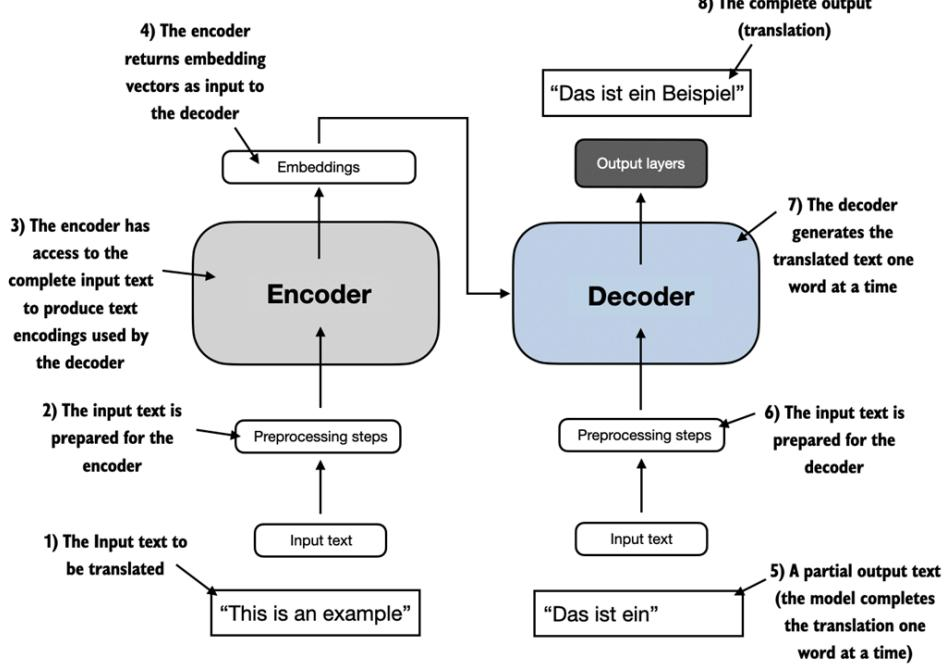
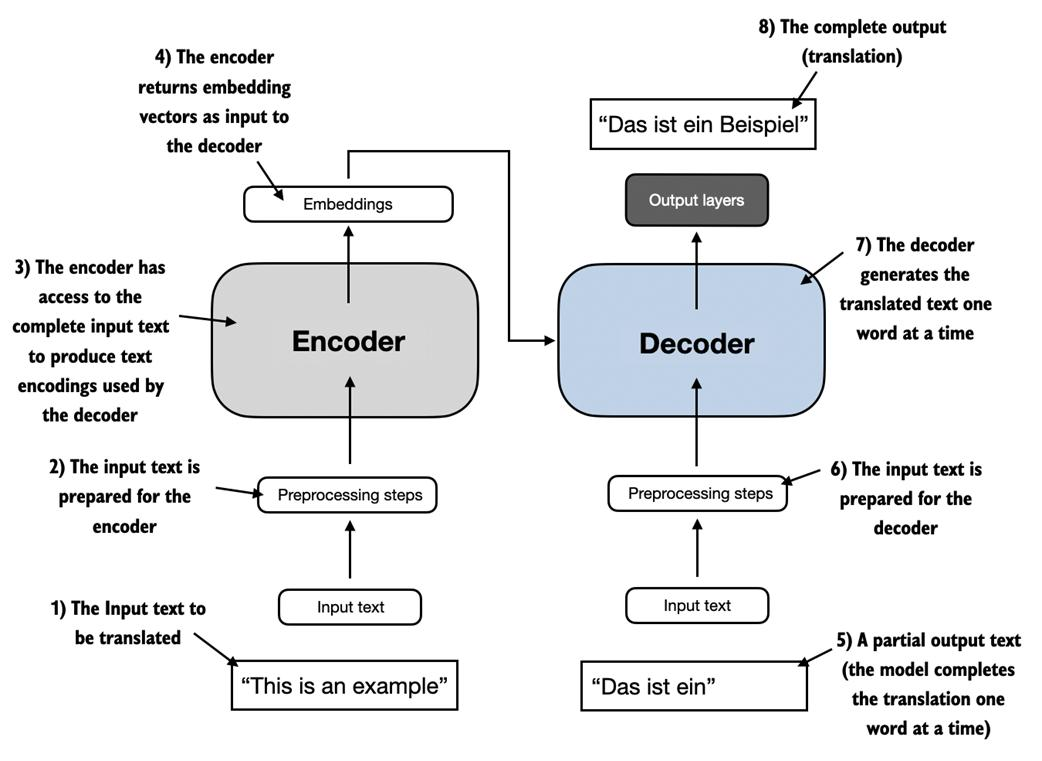
202504015.11

diff --git a/e-Book/en/Build_a_Large_Language_Model_(From_Scrat_v8_MEAP.md b/e-Book/en/Build_a_Large_Language_Model_(From_Scrat_v8_MEAP.md
@@ -122,9 +122,9 @@ The general process of creating an LLM includes pretraining and finetuning. The 
 
 ![](_page_10_Figure_0.jpeg)
 
-Figure 1.3 Pretraining an LLM involves next-word prediction on large text datasets. A pretrained LLM can then be finetuned using a smaller labeled dataset.
+> Figure 1.3 Pretraining an LLM involves next-word prediction on large text datasets. A pretrained LLM can then be finetuned using a smaller labeled dataset.
 
-As illustrated in Figure 1.3, the first step in creating an LLM is to train it on a large corpus of text data, sometimes referred to as *raw* text. Here, "raw" refers to the fact that this data is just regular text without any labeling information [\[1\]](#page-20-0) . (Filtering may be applied, such as removing formatting characters or documents in unknown languages.)
+As illustrated in Figure 1.3, the first step in creating an LLM is to train it on a large corpus of text data, sometimes referred to as *raw* text. Here, "raw" refers to the fact that this data is just regular text without any labeling information[^1]. (Filtering may be applied, such as removing formatting characters or documents in unknown languages.)
 
 This first training stage of an LLM is also known as *pretraining*, creating an initial pretrained LLM, often called a *base* or *foundation model*. A typical example of such a model is the GPT-3 model (the precursor of the original model offered in ChatGPT). This model is capable of text completion, that is, finishing a half-written sentence provided by a user. It also has limited few-shot capabilities, which means it can learn to perform new tasks based on only a few examples instead of needing extensive training data. This is further illustrated in the next section*, Introducing the transformer architecture*.
 
@@ -138,7 +138,7 @@ In this book, we will cover both code implementations for pretraining and finetu
 
 ## 1.4 Introducing the transformer architecture
 
-Most modern LLMs rely on the **transformer** architecture, which is a deep neural network architecture introduced in the 2017 paper **Attention Is All You Need**. To understand LLMs we briefly have to go over the original transformer, which was originally developed for machine translation, translating English texts to German and French. A simplified version of the transformer architecture is depicted in Figure 1.4.
+Most modern LLMs rely on the **transformer** architecture, which is a deep neural network architecture introduced in the 2017 paper **[Attention Is All You Need](https://arxiv.org/abs/1706.03762)**. To understand LLMs we briefly have to go over the original transformer, which was originally developed for machine translation, translating English texts to German and French. A simplified version of the transformer architecture is depicted in Figure 1.4.
 
 ![](_page_11_Figure_2.jpeg)
 
@@ -148,7 +148,7 @@ The transformer architecture depicted in Figure 1.4 consists of two submodules, 
 
 A key component of transformers and LLMs is the self-attention mechanism (not shown), which allows the model to weigh the importance of different words or tokens in a sequence relative to each other. This mechanism enables the model to capture long-range dependencies and contextual relationships within the input data, enhancing its ability to generate coherent and contextually relevant output. However, due to its complexity, we will defer the explanation to chapter 3, where we will discuss and implement it step by step. Moreover, we will also discuss and implement the data preprocessing steps to create the model inputs in [chapter 2, Working with Text Data](# 2 Working with Text Data).
 
-Later variants of the transformer architecture, such as the so-called BERT (short for *bidirectional encoder representations from transformers*) and the various GPT models (short for *generative pretrained transformers*), built on this concept to adapt this architecture for different tasks. (References can be found in Appendix B.)
+Later variants of the transformer architecture, such as the so-called BERT (short for **bidirectional encoder representations from transformers**) and the various GPT models (short for **generative pretrained transformers**), built on this concept to adapt this architecture for different tasks. (References can be found in Appendix B.)
 
 BERT, which is built upon the original transformer's encoder submodule, differs in its training approach from GPT. While GPT is designed for generative tasks, BERT and its variants specialize in masked word prediction, where the model predicts masked or hidden words in a given sentence as illustrated in Figure 1.5. This unique training strategy equips BERT with strengths in text classification tasks, including sentiment prediction and document categorization. As an application of its capabilities, as of this writing, Twitter uses BERT to detect toxic content.
 
@@ -183,21 +183,24 @@ The large training datasets for popular GPT- and BERT-like models represent dive
 | Books2                 | Internet-based book<br>corpus |                     | 8%                             |  |
 | Wikipedia              | High-quality text             | 3 billion           | 3%                             |  |
 
-Table 1.1 The pretraining dataset of the popular GPT-3 LLM
+> Table 1.1 The pretraining dataset of the popular GPT-3 LLM
 
 Table 1.1 reports the number of tokens, where a token is a unit of text that a model reads, and the number of tokens in a dataset is roughly equivalent to the number of words and punctuation characters in the text. We will cover tokenization, the process of converting text into tokens, in more detail in the next chapter.
 
 The main takeaway is that the scale and diversity of this training dataset allows these models to perform well on diverse tasks including language syntax, semantics, and context, and even some requiring general knowledge.
 
-#### GPT-3 DATASET DETAILS
+> [!NOTE]
+>
+> **GPT-3 DATASET DETAILS**
+>
+> Table 1.1 displays the dataset used for GPT-3. The proportions column in the table sums up to 100% of the sampled data, adjusted for rounding errors. Although the subsets in the "Number of Tokens" column total 509 billion, the model was trained on only 300 billion tokens. The authors of the GPT-3 paper did not specify why the model was not trained on all 509 billion tokens.
+>
+> For context, consider the size of the CommonCrawl dataset, which alone consists of 410 billion tokens and requires about 570 GB of storage. In comparison, later iterations of models like GPT-3, such as Meta's LLaMA, have expanded their training scope to include additional data sources like Arxiv research papers (92 GB) and StackExchange's code-related Q&As (78 GB).
+>
+> The authors of the GPT-3 paper did not share the training dataset but a comparable dataset that is publicly available is **Dolma: an Open Corpus of Three Trillion Tokens for LLM Pretraining Research** by Soldaini *et al. 2024 (*[https://arxiv.org/abs/2402.](https://arxiv.org/abs/2402.00159) [00159\)](https://arxiv.org/abs/2402.00159). However, the collection may contain copyrighted works, and the exact usage terms may depend on the intended use case and country.
+>
 
-Table 1.1 displays the dataset used for GPT-3. The proportions column in the table sums up to 100% of the sampled data, adjusted for rounding errors. Although the subsets in the "Number of Tokens" column total 509 billion, the model was trained on only 300 billion tokens. The authors of the GPT-3 paper did not specify why the model was not trained on all 509 billion tokens.
-
-For context, consider the size of the CommonCrawl dataset, which alone consists of 410 billion tokens and requires about 570 GB of storage. In comparison, later iterations of models like GPT-3, such as Meta's LLaMA, have expanded their training scope to include additional data sources like Arxiv research papers (92 GB) and StackExchange's code-related Q&As (78 GB).
-
-The authors of the GPT-3 paper did not share the training dataset but a comparable dataset that is publicly available is *Dolma: an Open Corpus of Three Trillion Tokens for LLM Pretraining Research* by Soldaini *et al. 2024 (*[https://arxiv.org/abs/2402.](https://arxiv.org/abs/2402.00159) [00159\)](https://arxiv.org/abs/2402.00159). However, the collection may contain copyrighted works, and the exact usage terms may depend on the intended use case and country.
-
-The pretrained nature of these models makes them incredibly versatile for further finetuning on downstream tasks, which is why they are also known as base or foundation models. Pretraining LLMs requires access to significant resources and is very expensive. For example, the GPT-3 pretraining cost is estimated to be \$4.6 million in terms of cloud computing credits [\[2\]](#page-20-1) .
+The pretrained nature of these models makes them incredibly versatile for further finetuning on downstream tasks, which is why they are also known as base or foundation models. Pretraining LLMs requires access to significant resources and is very expensive. For example, the GPT-3 pretraining cost is estimated to be \$4.6 million in terms of cloud computing credits [^2] .
 
 The good news is that many pretrained LLMs, available as open-source models, can be used as general purpose tools to write, extract, and edit texts that were not part of the training data. Also, LLMs can be finetuned on specific tasks with relatively smaller datasets, reducing the computational resources needed and improving performance on the specific task.
 
@@ -207,7 +210,7 @@ In this book, we will implement the code for pretraining and use it to pretrain 
 
 Previously in this chapter, we mentioned the terms GPT-like models, GPT-3, and ChatGPT. Let's now take a closer look at the general GPT architecture. First, GPT stands for *G*enerative *P*retrained *T*ransformer and was originally introduced in the following paper:
 
-*Improving Language Understanding by Generative Pre-Training* (2018) by *Radford et al.* from OpenAI, [http://cdn.openai.com/research-covers/language-unsupervised/language_understanding_paper.pdf](http://cdn.openai.com/research-covers/language-unsupervised/language_understanding_paper.pdf)
+**Improving Language Understanding by Generative Pre-Training (2018)** by *Radford et al.* from OpenAI, [http://cdn.openai.com/research-covers/language-unsupervised/language_understanding_paper.pdf](http://cdn.openai.com/research-covers/language-unsupervised/language_understanding_paper.pdf)
 
 GPT-3 is a scaled-up version of this model that has more parameters and was trained on a larger dataset. And the original model offered in ChatGPT was created by finetuning GPT-3 on a large instruction dataset using a method from OpenAI's InstructGPT paper, which we will cover in more detail in *chapter 7, Finetuning with Human Feedback To Follow Instructions*. As we have seen earlier in Figure 1.6, these models are competent text completion models and can carry out other tasks such as spelling correction, classification, or language translation. This is actually very remarkable given that GPT models are pretrained on a relatively simple next-word prediction task, as illustrated in Figure 1.7.
 
@@ -215,7 +218,7 @@ GPT-3 is a scaled-up version of this model that has more parameters and was trai
 
 ![](image.062B42.png)
 
-Figure 1.7 In the next-word pretraining task for GPT models, the system learns to predict the upcoming word in a sentence by looking at the words that have come before it. This approach helps the model understand how words and phrases typically fit together in language, forming a foundation that can be applied to various other tasks.
+> Figure 1.7 In the next-word pretraining task for GPT models, the system learns to predict the upcoming word in a sentence by looking at the words that have come before it. This approach helps the model understand how words and phrases typically fit together in language, forming a foundation that can be applied to various other tasks.
 
 The next-word prediction task is a form of self-supervised learning, which is a form of self-labeling. This means that we don't need to collect labels for the training data explicitly but can leverage the structure of the data itself: we can use the next word in a sentence or document as the label that the model is supposed to predict. Since this next-word prediction task allows us to create labels "on the fly", it is possible to leverage massive unlabeled text datasets to train LLMs as previously discussed in <u>section 1.5</u>, Utilizing large datasets.
 
@@ -225,7 +228,7 @@ Architectures such as GPT-3 are also significantly larger than the original tran
 
 ![](_page_18_Figure_0.jpeg)
 
-Figure 1.8 The GPT architecture employs only the decoder portion of the original transformer. It is designed for unidirectional, left-to-right processing, making it well-suited for text generation and next-word prediction tasks to generate text in iterative fashion one word at a time.
+> Figure 1.8 The GPT architecture employs only the decoder portion of the original transformer. It is designed for unidirectional, left-to-right processing, making it well-suited for text generation and next-word prediction tasks to generate text in iterative fashion one word at a time.
 
 GPT-3 was introduced in 2020, which, by the standards of deep learning and large language model (LLM) development, is considered a long time ago. However, more recent architectures, such as Meta's Llama models, are still based on the same underlying concepts, introducing only minor modifications. Hence, understanding GPT remains as relevant as ever, and this book focuses on implementing the prominent architecture behind GPT while providing pointers to specific tweaks employed by alternative LLMs.
 
@@ -239,7 +242,7 @@ In this chapter, we laid the groundwork for understanding LLMs. In the remainder
 
 ![](_page_19_Figure_2.jpeg)
 
-Figure 1.9 The stages of building LLMs covered in this book include implementing the LLM architecture and data preparation process, pretraining an LLM to create a foundation model, and finetuning the foundation model to become a personal assistant or text classifier.
+> Figure 1.9 The stages of building LLMs covered in this book include implementing the LLM architecture and data preparation process, pretraining an LLM to create a foundation model, and finetuning the foundation model to become a personal assistant or text classifier.
 
 First, we will learn about the fundamental data preprocessing steps and code the attention mechanism that is at the heart of every LLM.
 
@@ -264,12 +267,9 @@ I hope you are looking forward to embarking on this exciting journey!
 - While the general pretraining task for GPT-like models is to predict the next word in a sentence, these LLMs exhibit "emergent" properties such as capabilities to classify, translate, or summarize texts.
 - Once an LLM is pretrained, the resulting foundation model can be finetuned more efficiently for various downstream tasks.
 - LLMs finetuned on custom datasets can outperform general LLMs on specific tasks.
-- [\[1\]](#page-10-0) Readers with a background in machine learning may note that labeling information is typically required for traditional machine learning models and deep neural networks trained via the conventional supervised learning paradigm. However, this is not the case for the pretraining stage of LLMs. In this phase, LLMs leverage selfsupervised learning, where the model generates its own labels from the input data. This concept is covered later in this chapter
-- [\[2\]](#page-16-0) *GPT-3, The \$4,600,000 Language Model,* [https://www.reddit.com/r/MachineLearning/comments/h0jwoz/d_gpt3_the_4600000_language_model/](https://www.reddit.com/r/MachineLearning/comments/h0jwoz/d_gpt3_the_4600000_language_model/)
 
-<span id="page-20-1"></span><span id="page-20-0"></span>
-
-<span id="page-21-0"></span>
+[^1]:   Readers with a background in machine learning may note that labeling information is typically required for traditional machine learning models and deep neural networks trained via the conventional supervised learning paradigm. However, this is not the case for the pretraining stage of LLMs. In this phase, LLMs leverage selfsupervised learning, where the model generates its own labels from the input data. This concept is covered later in this chapter
+[^2]:  **GPT-3, The $4,600,000 Language Model** https://www.reddit.com/r/MachineLearning/comments/h0jwoz/d_gpt3_the_4600000_language_model/
 
 # 2 Working with Text Data
 
